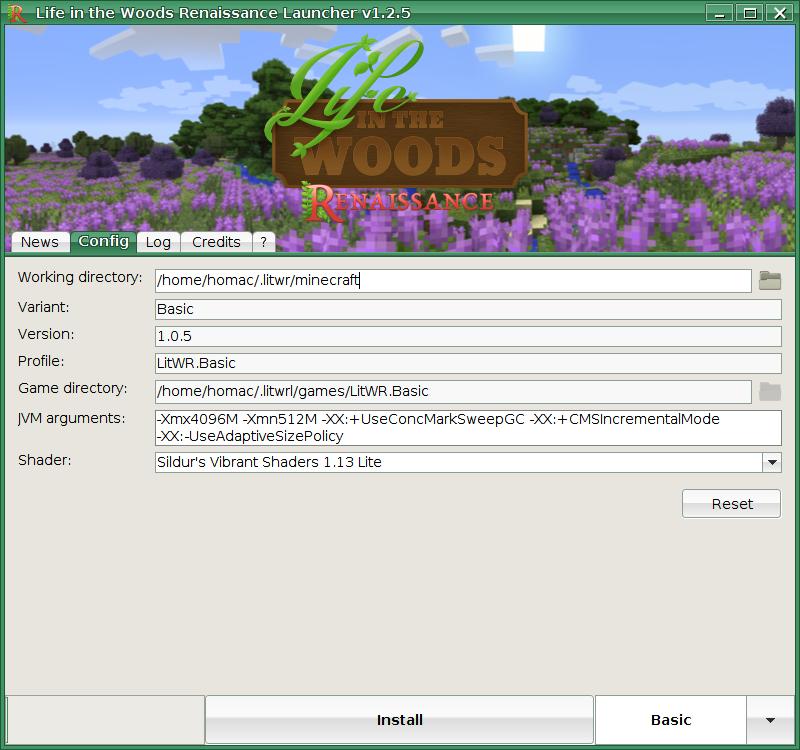
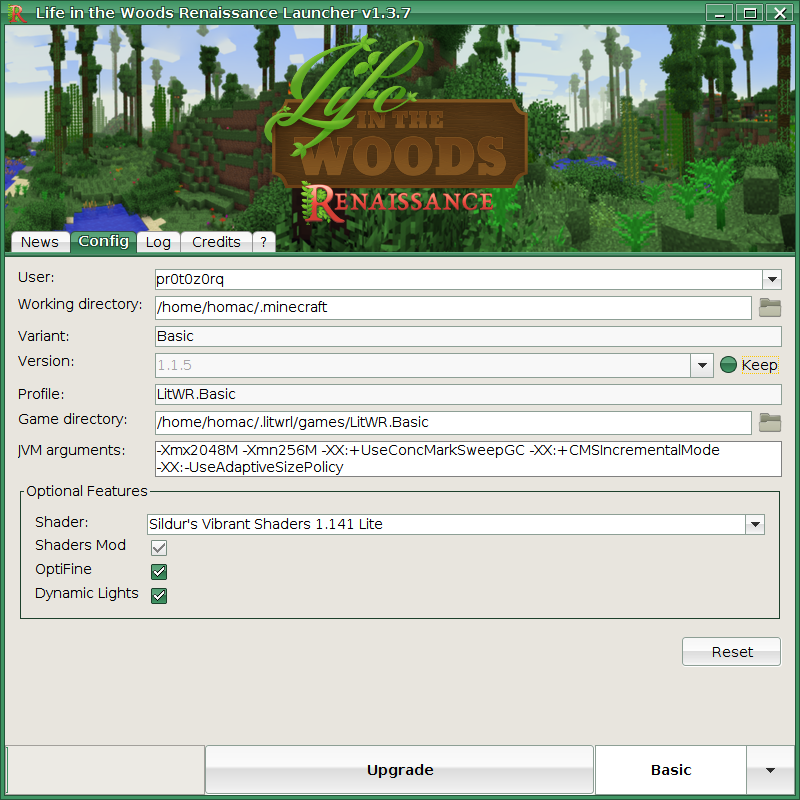
+ mod: manual update + web

diff --git a/doc/manual/index.html b/doc/manual/index.html
@@ -103,8 +103,8 @@
 		(Windows/MacOS/Linux).
 		</p>
 		<h2 id="Prerequisites">Prerequisites</h2>
-		<p>Minimum requirement is <b>Oracle Java SE 1.7</b> either the JRE or the JDK package. 
-			However, it is recommended by Mojang to use the latest Java version for better performance. 
+		<p>Minimum requirement for the mod-pack is <b>Oracle Java SE 1.8</b> either the JRE or the JDK package. 
+			It is also recommended by Mojang to use the latest Java version for better performance.
 			Download Java 1.8 <a href="http://www.oracle.com/technetwork/java/javase/downloads/index.html">here</a>. 
 			In case that link is no longer valid go <a href="http://java.oracle.com/">here</a> and 
 			navigate to Java SE (which means "Standard Edition").
@@ -175,7 +175,7 @@
 		> java -jar litwrl.jar
 		</pre>
 		<p>
-		Make sure you have at least Oracle Java SE 1.7 installed (see <a href="#Prerequisites">Prerequisites</a>).
+		Make sure you have at least Oracle Java SE 1.8 installed (see <a href="#Prerequisites">Prerequisites</a>).
 		</p>
 		<h1 id="Application">Application</h1>
 		<h2 id="Start">Start</h2>
@@ -295,6 +295,16 @@
 			elements on the <em>Config</em> tab beginning at the top.
 		</p>
 		<div align="center"><img src="images/config-page.png"/></div>
+		<h4 id="User">User</h4>
+		<p>The launcher supports multiple user accounts. The drop down box allows
+		    to switch between known user accounts. During installation, 
+		    the launcher will copy the user accounts of your standard Minecraft 
+		    installation and automatically select the one you have recently used.
+		    If you would like to add another account, then chose the field 
+		    "login on next start". The launcher will then open a login prompt
+		    when you start the game.
+		</p>
+		
 		<h4 id="WorkingDirectory">Working Directory</h4>
 		<p>This field contains the path to the Minecraft working directory 
 			(see also Section <a href="#Directories">Directories</a>). 
@@ -331,11 +341,32 @@
 			corner (footer) of the launcher GUI (see also Section 
 			<a href="#GameVariant">Game Variant</a>).
 		</p>
-		<h3 id="ConfigVersion">Version</h3>
-		<p>This field displays the current version of the mod-pack. This is not the launcher version.
-		The launcher version is always displayed in the window title.</p>
-		<h3 id="ConfigProfile">Profile</h3>
-		<p>This field displays the name of the profile which is also the name of the game directory 
+		<h4 id="ConfigVersion">Version</h4>
+		<p> This field displays the version of the selected variant of the 
+		    mod-pack which is either currently installed or will be installed 
+		    when you hit the <em>Install/Play</em> button. In case you are 
+		    installing the mod-pack for the first time, this field allows you
+		    to chose one of the versions available on the update server. 
+		    By default, the launcher will select the most recent version.
+	    </p>
+	    <p> Behind the version field is a radio button showing the text 
+	        <em>Keep</em>. In case the update server offers a newer version
+	        of the mod-pack, this button allows you to <em>keep</em> an already 
+	        installed version until you decide to upgrade. This allows you to 
+	        play with an older version until you think it is safe to upgrade.
+			Also, when you first install a variant and select an older version, the 
+	        launcher will automatically activate the <em>Keep</em> button.
+	    </p>
+	    <p> Once installed, you cannot downgrade a given version of the 
+	        mod-pack (just not supported). In case you want to check if an upgrade
+	        will be successful (considering an upgrade of a world you have used 
+	        in an older version), then create a backup first: Copy the game folder
+	        (see above) to a save location. If you decide to keep the older version
+	        then copy the backup back to its original location and set the tick to 
+	        <em>Keep</em> this version.
+	    </p>
+		<h4 id="ConfigProfile">Profile</h4>
+		<p>This field displays the name of the profile which is also the default name of the game directory 
 		(see Section <a href="#Directories">Directories</a>). 
 		The name of the profile always consists of the prefix 
 		<code>LitWR.</code> followed by the name of the variant. When you 
@@ -344,7 +375,15 @@
 		</p>
 		<h4 id="ConfigGameDirectory">Game Directory</h4>
 		<p>This field displays the game directory of the selected 
-			LitWR variant (see Section <a href="#Directories">Directories</a>).
+			LitWR variant (see Section <a href="#Directories">Directories</a>). 
+			By default the launcher suggests a location for the game directory 
+			in its local folder.
+		</p>
+		<p> You <em>can</em> chose a different location for the game directory here. 
+		    In this case, please note that the game directory is specific for the 
+		    selected game variant and version. Do not use the same game directory for
+		    different variants. If you select an existing directory, the launcher 
+		    will detect the version but not its variant.
 		</p>
 		<h4 id="JVMArguments">JVM Arguments</h4>
 		<p>This field contains the arguments which will be given to 
@@ -353,22 +392,47 @@
 		hardware and adjusts these arguments to optimise performance.
 		</p>
 		<p>
-		<b>Warning:</b> JVM arguments have significant impact on the 
+		JVM arguments have significant impact on the 
 		performance and can cause the game to crash or not start at all. 
 		You can always reset these arguments by clicking the 
 		<em>Reset</em> button below.
 		</p>
-		<h4 id="Shader">Shader</h4>
-		<p>This field generally allows you to activate visual 
-			enhancements to Minecraft. Visual enhancements include at 
-			formost a shader and the mods ShaderModCore and OptiFine to 
-			make the shader work, but also the mod DynamicLights, 
-			which lets torches emit light while holding them in 
-			your hand.
+		<h4 id="OptionalFeatures"><u>Optional Features Section</u></h4>
+		<p>
+		Shader pack and some of the mods are optional and require 
+		a seperate download. Thus they have got its own section on the config page. 
+		Optional features include a shader and the mods ShaderModCore and OptiFine to 
+		make the shader work, but also the mod DynamicLights, 
+		which lets torches emit light while holding them in 
+		your hand.
 		</p>
-		<p>The list of shaders is ordered by performance impact. 
-		The topmost are the lightest and the bottommost reduce 
-		FPS more.
+		<p>
+		If one of those optional features is selected, the 
+		installation process will require you to download some 
+		packages through your Internet browser. But don't worry, 
+		the launcher will guide you and you will basically just 
+		have to click buttons and links. 
+		</p>
+		<p>Features can be enabled or disabled which results in 
+		   either installation or deinstallation. In case of 
+		   changes to the current configuration the 
+		   <em>Install/Play</em> button will reflect this by 
+		   showing the text <em>Apply Changes</em>. A click on this
+		   button will then execute the required operations to apply
+		   the changes.
+		</p>
+		<h4 id="Shader">Shader</h4>
+		<p> This field generally allows you to select one of the supported 
+		    shaders or those shaders, you have manually installed. 
+            The list of shaders is ordered by performance impact. 
+		    The topmost are the lightest and the bottommost reduce 
+		    FPS more. The empty field, or field <em>none</em> or 
+		    <em>internal</em> represent Minecraft vanilla shading, i.e. no custom shaders. 
+		</p>
+		<p> When selecting a custom shader for the first, the launcher will 
+		    automatically add all optional features as well. The 
+		    ShadersMod is required by all shaders. Other features 
+		    can be turned off in case your game runs better without them.
 		</p>
 		<p> To support the Streams mod (generates flowing rivers) shaders 
 			are getting patched during the start of the Minecraft client. 
@@ -379,15 +443,7 @@
 			<a href="#HelperModShaderPatching">Shader Patching</a> 
 			in order to learn how you can add support for your shader.
 		</p>
-		<p>When a shader was selected, the installation process 
-			will require you to download some packages through your 
-			Internet browser. But don't worry, the launcher will guide 
-			you and you will basically just have to click 
-			buttons and links. The empty field, or field 
-			<em>none</em> or <em>internal</em> represent 
-			Minecraft vanilla shading (i.e. no custom shaders).
-		</p>
-		<p><b>Please note:</b> Activation of shaders is twofold: It makes your game 
+		<p>Activation of shaders is twofold: It makes your game 
 		look prettier (at least for most people) but it reduces 
 		frames per second and game performance in general. 
 		Reduced FPS can cause motion sickness for some people, 
@@ -400,6 +456,22 @@
 		that have been reported earlier. In this case refer to the 
 		<a href="http://homac.cakelab.org/projects/litwrl/support/faq.html">FAQ</a> 
 		to solve them.
+		</p>
+		<h4 id="ShadersMod">Shaders Mod</h4>
+		<p>If this tick is set, the launcher will install the Shaders Mod which is 
+		   required for all shaders.  In case a custom shader is selected, this tick
+		   will be automatically set.
+		</p>
+		<h4 id="OptiFine">OptiFine</h4>
+		<p>
+		OptiFine improves game performance even if you are not using shaders. 
+		</p>
+		
+		<h4 id="DynamicLights">Dynamic Lights</h4>
+		<p>
+		This is a mod, which lets items emit light, even when you hold them in 
+		your hands wear them on your head or drop them on the floor. Downside 
+		is, that it can be quite resource intensive.
 		</p>
 		<h4 id="ResetButton"><em>Reset</em> Button</h4>
 		<p>The reset button resets the JVM arguments and the Shader to its default settings.
@@ -683,7 +755,7 @@
 		the download when the shader was updated.
 		</p>
 		<h2>Open Source</h2>
-		<p>The launcher and the shader are open source. Everybody can 
+		<p>The launcher is open source. Everybody can 
 		review the source code <a href="http://homac.cakelab.org/projects/litwrl">here</a>.	This guarantees that no one can add 
 		malicious code or spy functionalities without other people 
 		getting aware of it.

diff --git a/doc/offline-news/news.html b/doc/offline-news/news.html
@@ -25,6 +25,17 @@
 <h1>News</h1>
 	<dl>
 	<!-- START OF NEWS ENTRIES -->
+	<dt>[25/06/2016] Mod-pack Update 1.1 Incoming!</dt>
+	<dd>On <b>1st of July</b> we will update the mod-pack to version 1.1.5 which contains a
+	    lot of updates for mods, including forge. 
+	    Today's update of the launcher is a preparation of the coming
+	    mod-pack update. Most important: The new launcher allows to keep an older 
+	    mod-pack version until you decide that it is safe to upgrade to the newer version.
+	    We have tested a lot, but there might be some special cases which may cause
+	    issues with upgrades of existing saves. Refer to section <a href="http://homac.cakelab.org/projects/litwrl/manual/index.html#ConfigVersion">Configuration</a>
+	    in the <a href="http://homac.cakelab.org/projects/litwrl/manual/">manual</a> 
+	    to learn how to keep a given version and check for compatibility of your 
+	    existing worlds.
 	<dt>[17/03/2016] Today's Task: Throw a Torch!</dt>
 	<dd>Launcher hot-fix 1.2.10 also included a fix related to dynamic lights.
 		People using shaders will notice only, when they drop a torch on the floor.
@@ -35,8 +46,6 @@
 		Please turn off <a href="http://homac.cakelab.org/projects/litwrl/support/faq.html#0003">Multi-Core Chunk Loading</a>.<br/>
 		Read technical details <a href="http://homac.cakelab.org/projects/litwrl/support/update-1.0.8.html">here</a>.
 	</dd>
-	<dt>[14/02/2016] Welcome to Life in the Woods: Renaissance</dt>
-	<dd>I hope you have a great time!</dd>
 	<!-- END OF NEWS -->
 	</dl>
 </td>
